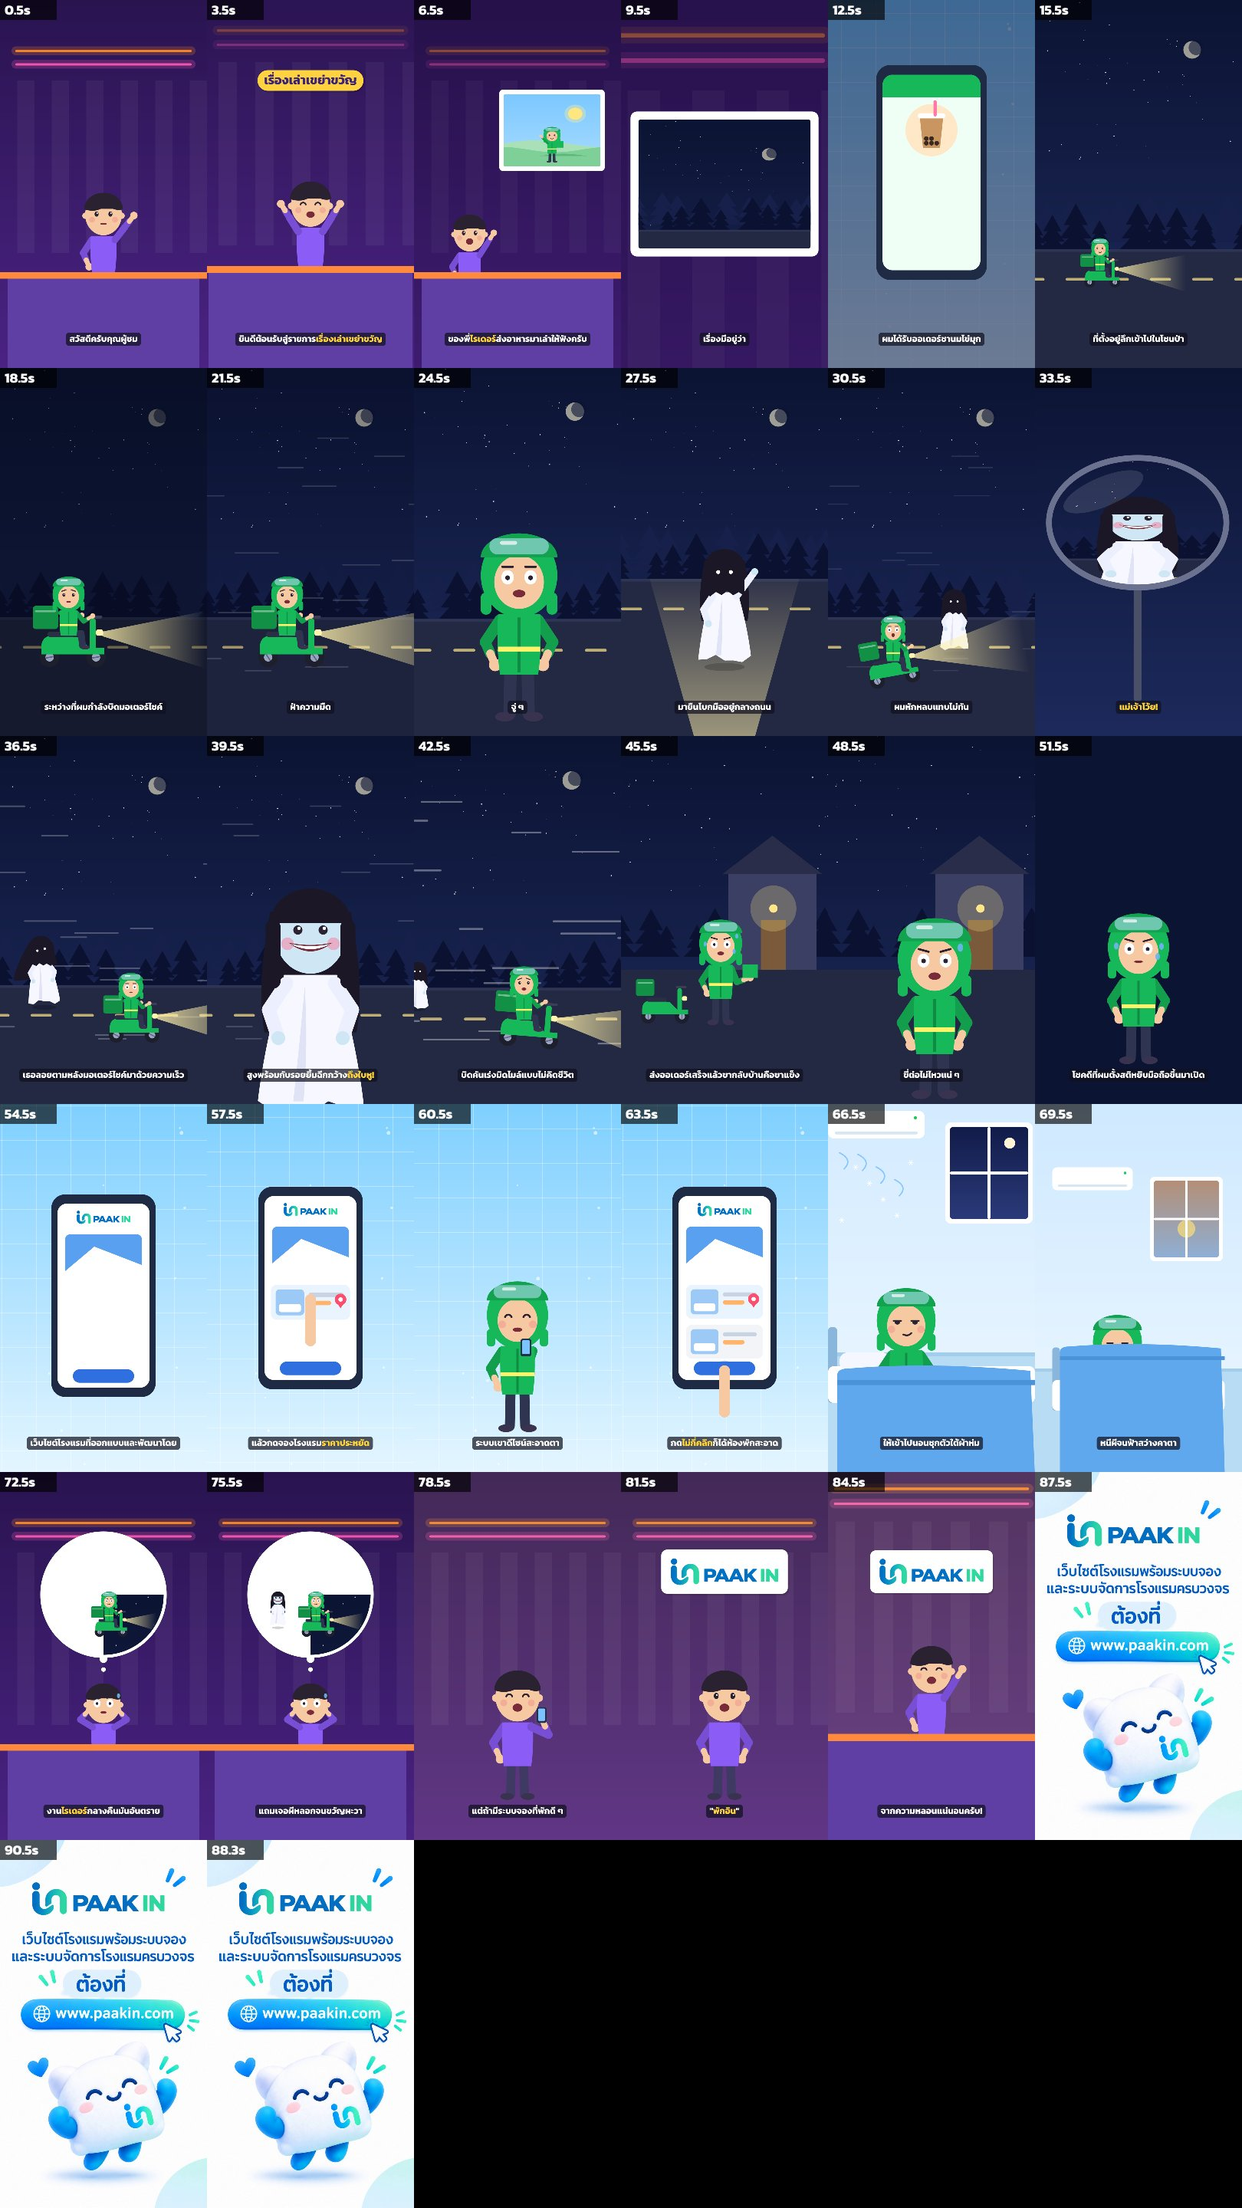
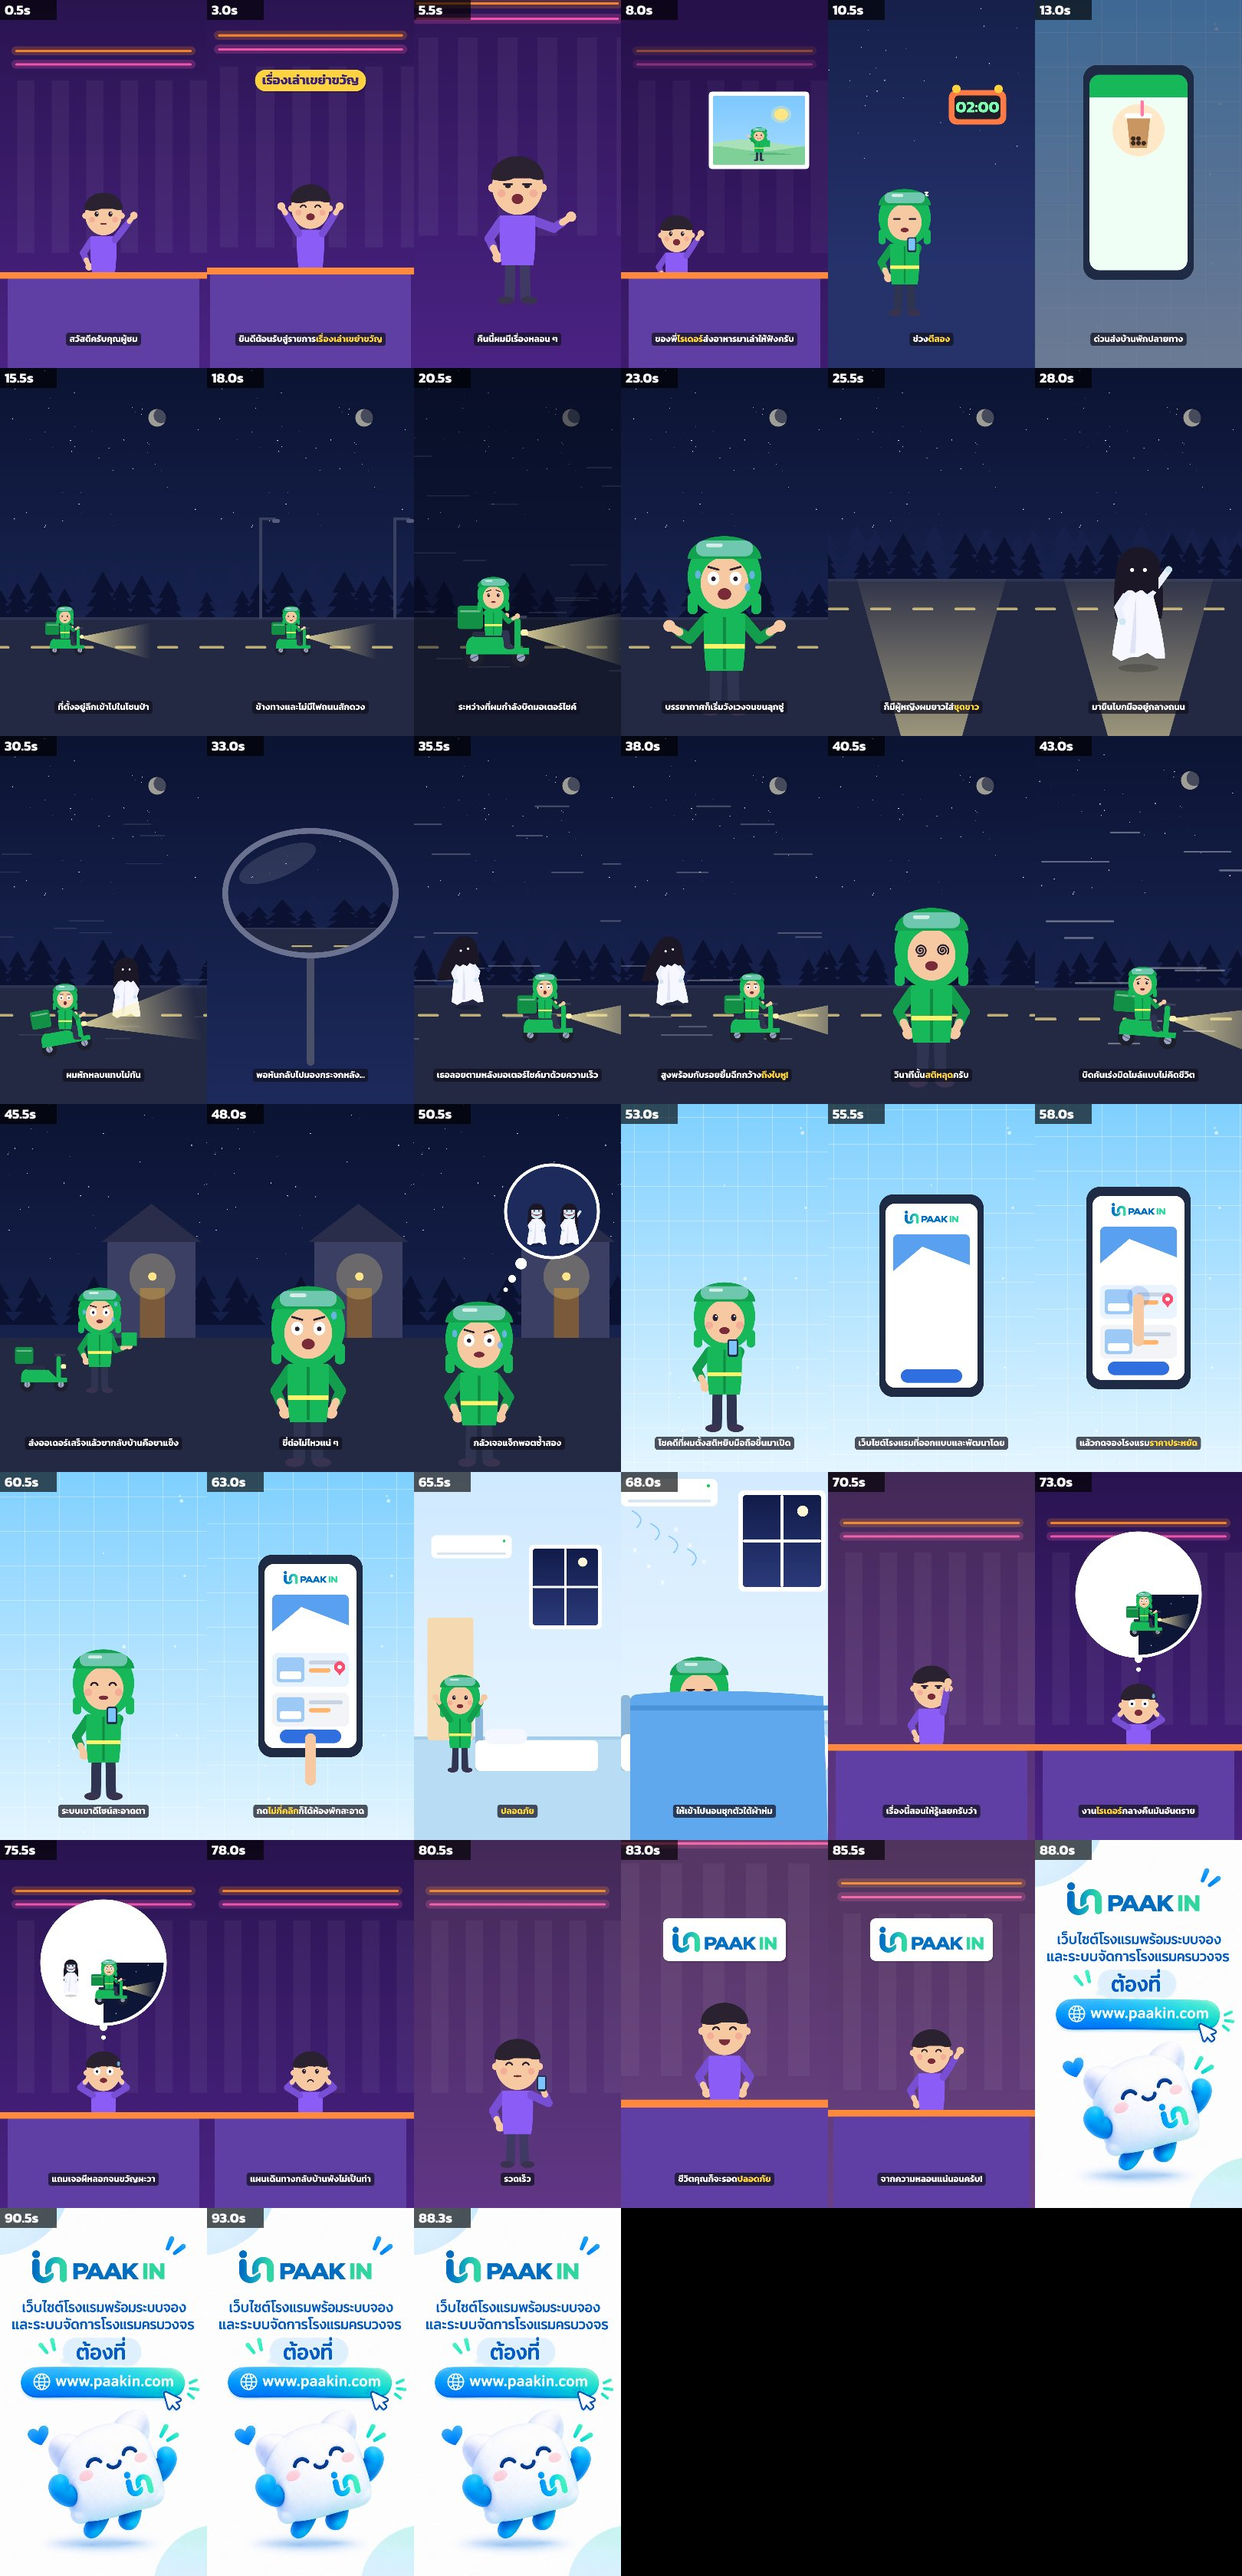
feat: midnight-order clip done (shots, captions, library entry, report)
Claude-Session: https://claude.ai/code/session_01CrCPkFCVZwvw9KcpJnuXPU

diff --git a/jobs/20261113-midnight-order/shots.js b/jobs/20261113-midnight-order/shots.js
@@ -111,7 +111,14 @@ export default function (S) {
     drawChar(ctx, 'rider', { x: 480 - on(t, TW(18, 'หันกลับ'), 1) * 40, y: 1800, scale: 2.3, expr: 'scared', talk: true });
   });
   // 16–17 กระจกหลัง: ว่าง → ผีโผล่
-  const mirror = (ctx, t, g) => { sky(ctx, 'roadNight'); mirrorView(ctx, { x: 540, y: 820, w: 860, h: 620 }, (c) => { roadNight(c, { t, roadY: 1250 }); if (g) drawChar(c, 'ghost', { x: 540, y: 1650, scale: 2.4, smile: 0.5 }); }); };
+  const mirror = (ctx, t, g) => {
+    sky(ctx, 'roadNight'); mirrorView(ctx, { x: 540, y: 820, w: 860, h: 620 }, (c) => { roadNight(c, { t, roadY: 1250 }); });
+    if (!g) return;
+    ctx.save(); ctx.beginPath(); ctx.ellipse(540, 820, 430, 310, 0, 0, Math.PI * 2); ctx.clip();
+    const k = prog(t, T(19), 0.2);
+    drawChar(ctx, 'ghost', { x: 540, y: 1180 + (1 - k) * 200, scale: 1.4, smile: 1 });
+    ctx.restore();
+  };
   shot(TW(18, 'กระจก'), (ctx, lt, t) => mirror(ctx, t, false));
   shot(T(19), (ctx, lt, t) => mirror(ctx, t, true), { cam: (lt) => ({ x: 540, y: 960, zoom: 1.04, shake: lt < 0.6 }) });
   // 18 ผีลอยตาม
@@ -142,10 +149,11 @@ export default function (S) {
   shot(T(24), (ctx, lt, t) => {
     house(ctx, t);
     const after = t > TW(24, 'ขากลับ');
+    ctx.fillStyle = 'rgba(0,0,0,0.3)'; ctx.beginPath(); ctx.ellipse(after ? 470 : 520, 1500, 90, 16, 0, 0, Math.PI * 2); ctx.fill();
     motorcycle(ctx, { x: 230, y: 1500, s: 0.8, light: false, t: 0 });
     if (!after) drawChar(ctx, 'rider', { x: 520, y: 1500, scale: 1.4, expr: 'sweat', arms: { r: { x: 110, y: -170, bend: 'down' } }, shiver: 0.6, talk: true });
     else drawChar(ctx, 'rider', { x: 470, y: 1500, scale: 1.4, expr: 'pale', shiver: 1.2, talk: true });
-    if (!after) { ctx.fillStyle = '#16b85a'; ctx.fillRect(520 + 110 * 1.4 - 40, 1500 - 170 * 1.4 - 70, 80, 70); }
+    if (!after) { ctx.fillStyle = '#16b85a'; ctx.fillRect(520 + 110 * 1.4 - 45, 1500 - 170 * 1.4 - 50, 90, 70); ctx.fillStyle = '#f6c9a2'; ctx.beginPath(); ctx.arc(520 + 154, 1500 - 238, 13 * 1.4, 0, Math.PI * 2); ctx.fill(); }
   });
   // 23 ไม่ไหว
   shot(T(25), (ctx, lt, t) => {
@@ -202,15 +210,15 @@ export default function (S) {
     hotelRoom(ctx, { t, cool: 1 });
     bed(ctx, { x: 540, y: 1600, w: 900 });
     const k = on(t, TW(37, 'ซุกตัว'), 0.5);
-    drawChar(ctx, 'rider', { x: 430, y: 1720, scale: 1.6, expr: 'smug' });
-    blanket(ctx, { x: 540, y: 1920, w: 900, top: 1450 - k * 185 });
+    drawChar(ctx, 'rider', { x: 430, y: 1720, scale: 1.6, expr: k < 1 ? 'scared' : 'happy' });
+    blanket(ctx, { x: 540, y: 1920, w: 900, top: 1450 - k * 120 });
   }, { cam: { x: 540, y: 1100, zoom: 1.2 } });
   // 32 หลับจนเช้า
   shot(T(38), (ctx, lt, t) => {
     hotelRoom(ctx, { t, dawn: on(t, TW(38, 'ฟ้าสว่าง'), 0.9) });
     bed(ctx, { x: 540, y: 1600, w: 900 });
-    drawChar(ctx, 'rider', { x: 430, y: 1720, scale: 1.6, expr: 'sleep' });
-    blanket(ctx, { x: 540, y: 1920, w: 900, top: 1265 });
+    drawChar(ctx, 'rider', { x: 430, y: 1720, scale: 1.6, expr: t > TW(38, 'ฟ้าสว่าง') ? 'happy' : 'sleep' });
+    blanket(ctx, { x: 540, y: 1920, w: 900, top: 1330 });
   });
   // 33 สอนใจ
   shot(T(39), (ctx, lt, t) => { studio(ctx, t, { bright: 1 }); narr(ctx, { expr: 'smug', arms: { r: 'up' } }); deskF(ctx); });

diff --git a/jobs/20261113-midnight-order/handoff.md b/jobs/20261113-midnight-order/handoff.md
@@ -1,21 +1,6 @@
-# handoff: film-director → animator
-- เสร็จ: shotlist.md 37 ช็อต + end card (86.0) พร้อม audio cue list และรายการของใหม่ใน engine
-- ไฟล์: jobs/20261113-midnight-order/shotlist.md (อิง words.json วลี 0–50)
-- ของใหม่: ตัวละคร rider, ghost; prop motorcycle, roadNight, mirrorView, hotelRoom(เตียง+ผ้าห่ม+แอร์+หน้าต่าง), clock02, sky neonStudio/digitalSky, phone screens, fx ตัวสั่น/กล้องสั่น
-- ผีต้องการ์ตูนตลก: ยิ้มกว้างฟันขาวเรียบ ไม่มีเลือด ผมปิดหน้า ลอยไม่มีขา
-- ข้อความบนจอมีแค่ titleCapsule "เรื่องเล่าเขย่าขวัญ" + logoCard พักอิน (#26, #36–37) — ห้ามเติมอื่น (L12)
-- ห้ามแสดงตัวเลขจำนวนคลิก (L17) ช็อต #29
-- ลำแสงไฟหน้ารถออกจากหัวโคม (L05); แขนจับแฮนด์ใช้ IK (L03); rider ในกรอบรูป ย่อ+กำหนด x (L10)
-- การ์ด/bubble ค้างจนพูดจบ (L07); เนื้อหาหลักเหนือ y 1650
-- ปากขยับ: narrator ฉาก 1/4, rider ฉาก 2–3 เฉพาะช็อตเห็นหน้า; ghost ไม่ขยับปาก
-- SFX tonal เท่านั้น ตาม cue list (sound)
-
-## เสียง (sound)
-- เสร็จ: audio_plan.json + mix.mp3 (93.17 วิ รวมเสียงปิด), timing.js มี VO_DUR=86.249 END_DUR=6.922; ไม่เร่งเสียง
-- ดนตรี 8 segment ตาม cue list; เงียบตึง 31.4–33.4 (ไม่มีดนตรี) ก่อน boom 33.45; ปลาย warm→cute→outro
-- SFX 28 จุด tonal ล้วน (ลม=theremin, whoosh=boing, เครื่องยนต์=ไม่ใส่); ฉากปิดเริ่ม 86.25
-# animator → critic
-- shots.js 37 ช็อต + ของใหม่ใน engine: rider/ghost (cast+rig drawGhost), expr swirl/sweat, mode ride, shiver/goose; scenes: neonStudio, digitalSky, roadNight, motorcycle, mirrorView, hotelRoom/bed/blanket, clock0200, phoneScreen(ไม่มีตัวหนังสือ), sparkles, soulWisp, thoughtBubble
-- contact.jpg ตรวจแล้ว · เทสต์ web ผ่าน 8/8
-- ไม่มั่นใจ: #31–32 ผ้าห่มคลุม (rider โผล่ตา), #22 กล่องอาหารในมือเป็นสี่เหลี่ยมลอย, #34 ฉากใน bubble ถนนเลื่อนไม่เต็มวง, #7 แผนที่เพิ่งเด้งตอน ~12.5
-- #29 วงแตะวนต่อเนื่อง ไม่นับจำนวน (L17) · phone() เดิมมีข้อความ จึงไม่ใช้
+# marketer → librarian
+- เสร็จ: captions.json ครบ YouTube/Facebook/TikTok/Instagram + cta + best_time
+- validate ผ่าน (✓) ทุกแพลตฟอร์มมี paakin.com, YouTube title มี #Shorts, IG แฮชแท็ก 18 (≤30)
+- ใช้ "กดไม่กี่คลิก" ตาม L17 ไม่มีตัวเลขจำนวนคลิก
+- best_time: 20:00-22:00 น. ศุกร์/เสาร์
+- ข้อควรระวัง: ยังไม่ได้อัปเดตออฟฟิศ (ไม่มีเครื่องมือ ArtifactData ในเซสชันนี้) ให้ผู้เรียกอัปเดต stage=marketer

diff --git a/jobs/20261113-midnight-order/review.md b/jobs/20261113-midnight-order/review.md
@@ -1,0 +1,17 @@
+# Review — 20261113-midnight-order
+ผล: **ผ่าน (มีควรแก้)** · ตรวจจาก contact sheet ทุก 2.5 วิ (ภาพนิ่ง) ยังไม่ได้ฟังเสียงจริง
+
+## ต้องแก้
+- ไม่มี
+
+## ควรแก้
+- #34 ~33.0 วิ กระจกหลังมีแค่ต้นไม้ ไม่เห็นผีในกระจก ทั้งที่บทพูดถึงกระจกหลัง ควรให้ผีโผล่ในกระจกตอน boom 33.45
+- #31–32 ~68.0 วิ ผ้าห่มคลุมจนเหลือแค่ยอดหมวก ไม่เห็นตา (handoff บอกว่าควรโผล่ตา) ควรยกหัวขึ้นให้เห็นตาตกใจ
+- #22 ~45.5 วิ ไรเดอร์ลอยอยู่ข้างรถ ส่วนกล่องอาหารเป็นสี่เหลี่ยมลอย ควรวางเท้าบนพื้นและติดกล่องกับมือ
+
+## เล็กน้อย
+- #7 ~12.5 วิ แผนที่เด้งช้า ในภาพนิ่งดูไม่ผิด
+- #10–11 ~73–75.5 วิ ฉากใน bubble ถนนเต็มวงไม่สนิท ยังอ่านภาพออก
+
+## ตามเช็กลิสต์: ผ่าน
+ไม่มีลายน้ำ · ไม่มีตัวเลขจำนวนคลิก (L17; ซับ 63 วิเขียน "ไม่กี่คลิก") · ไม่มีข้อความเกิน (มีแค่ title และโลโก้) · ลำแสงไฟหน้าออกจากโคม (L05) · rider อยู่ในกรอบรูป (L10) · ซับบรรทัดเดียวไม่ล้น · โทนสีตรงบรีฟ · ฉากปิดเริ่ม ~86.3–88 วิ ค้างถึงจบ

diff --git a/jobs/20261113-midnight-order/report.md b/jobs/20261113-midnight-order/report.md
@@ -1,0 +1,7 @@
+# รายงาน: ออเดอร์เที่ยงคืน
+- out.mp4 1080x1920 30fps 93.2 วิ 10.3MB (ส่งในแชท, ไม่เก็บใน git)
+- 37 ช็อต · ดนตรี 8 ช่วง · SFX tonal 28 จุด
+- critic: ผ่าน + แก้ 3 จุด 1 รอบ
+- token ~320k / งบ 420k
+- บทเรียนใหม่: L17
+- ผู้ใช้: โพสต์ 4 แพลตฟอร์ม แล้วแจ้ง /report posted 20261113-01 <platform>
